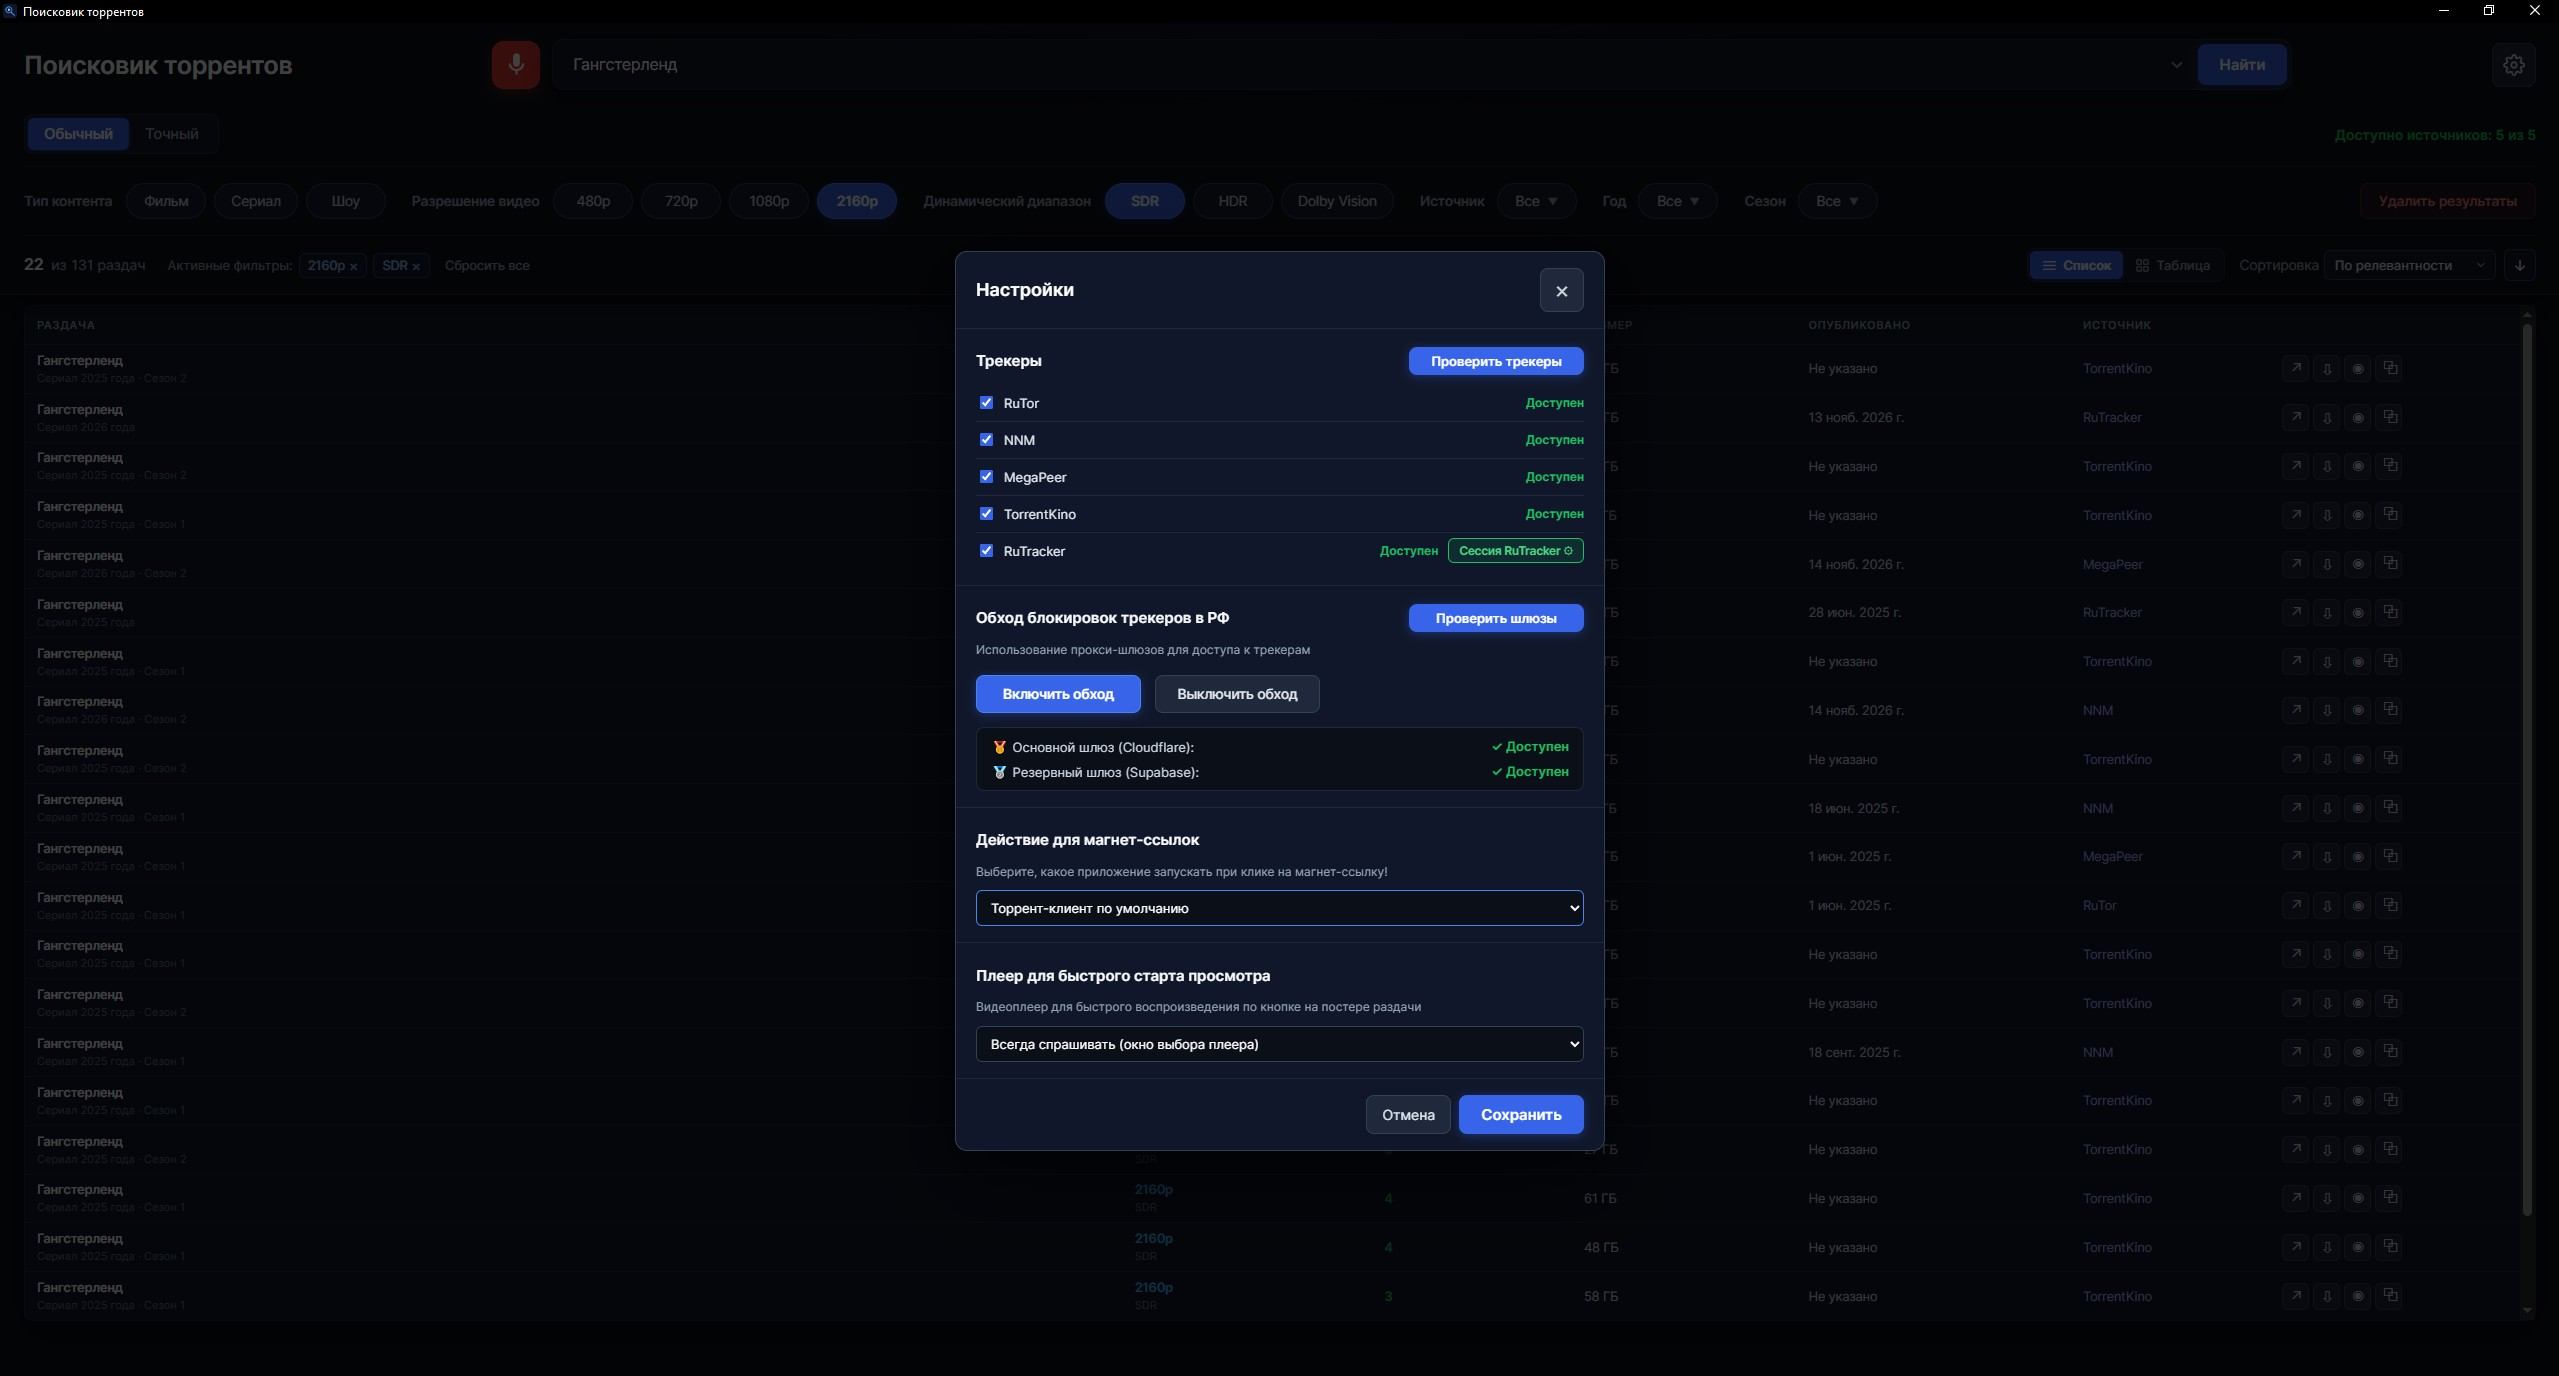
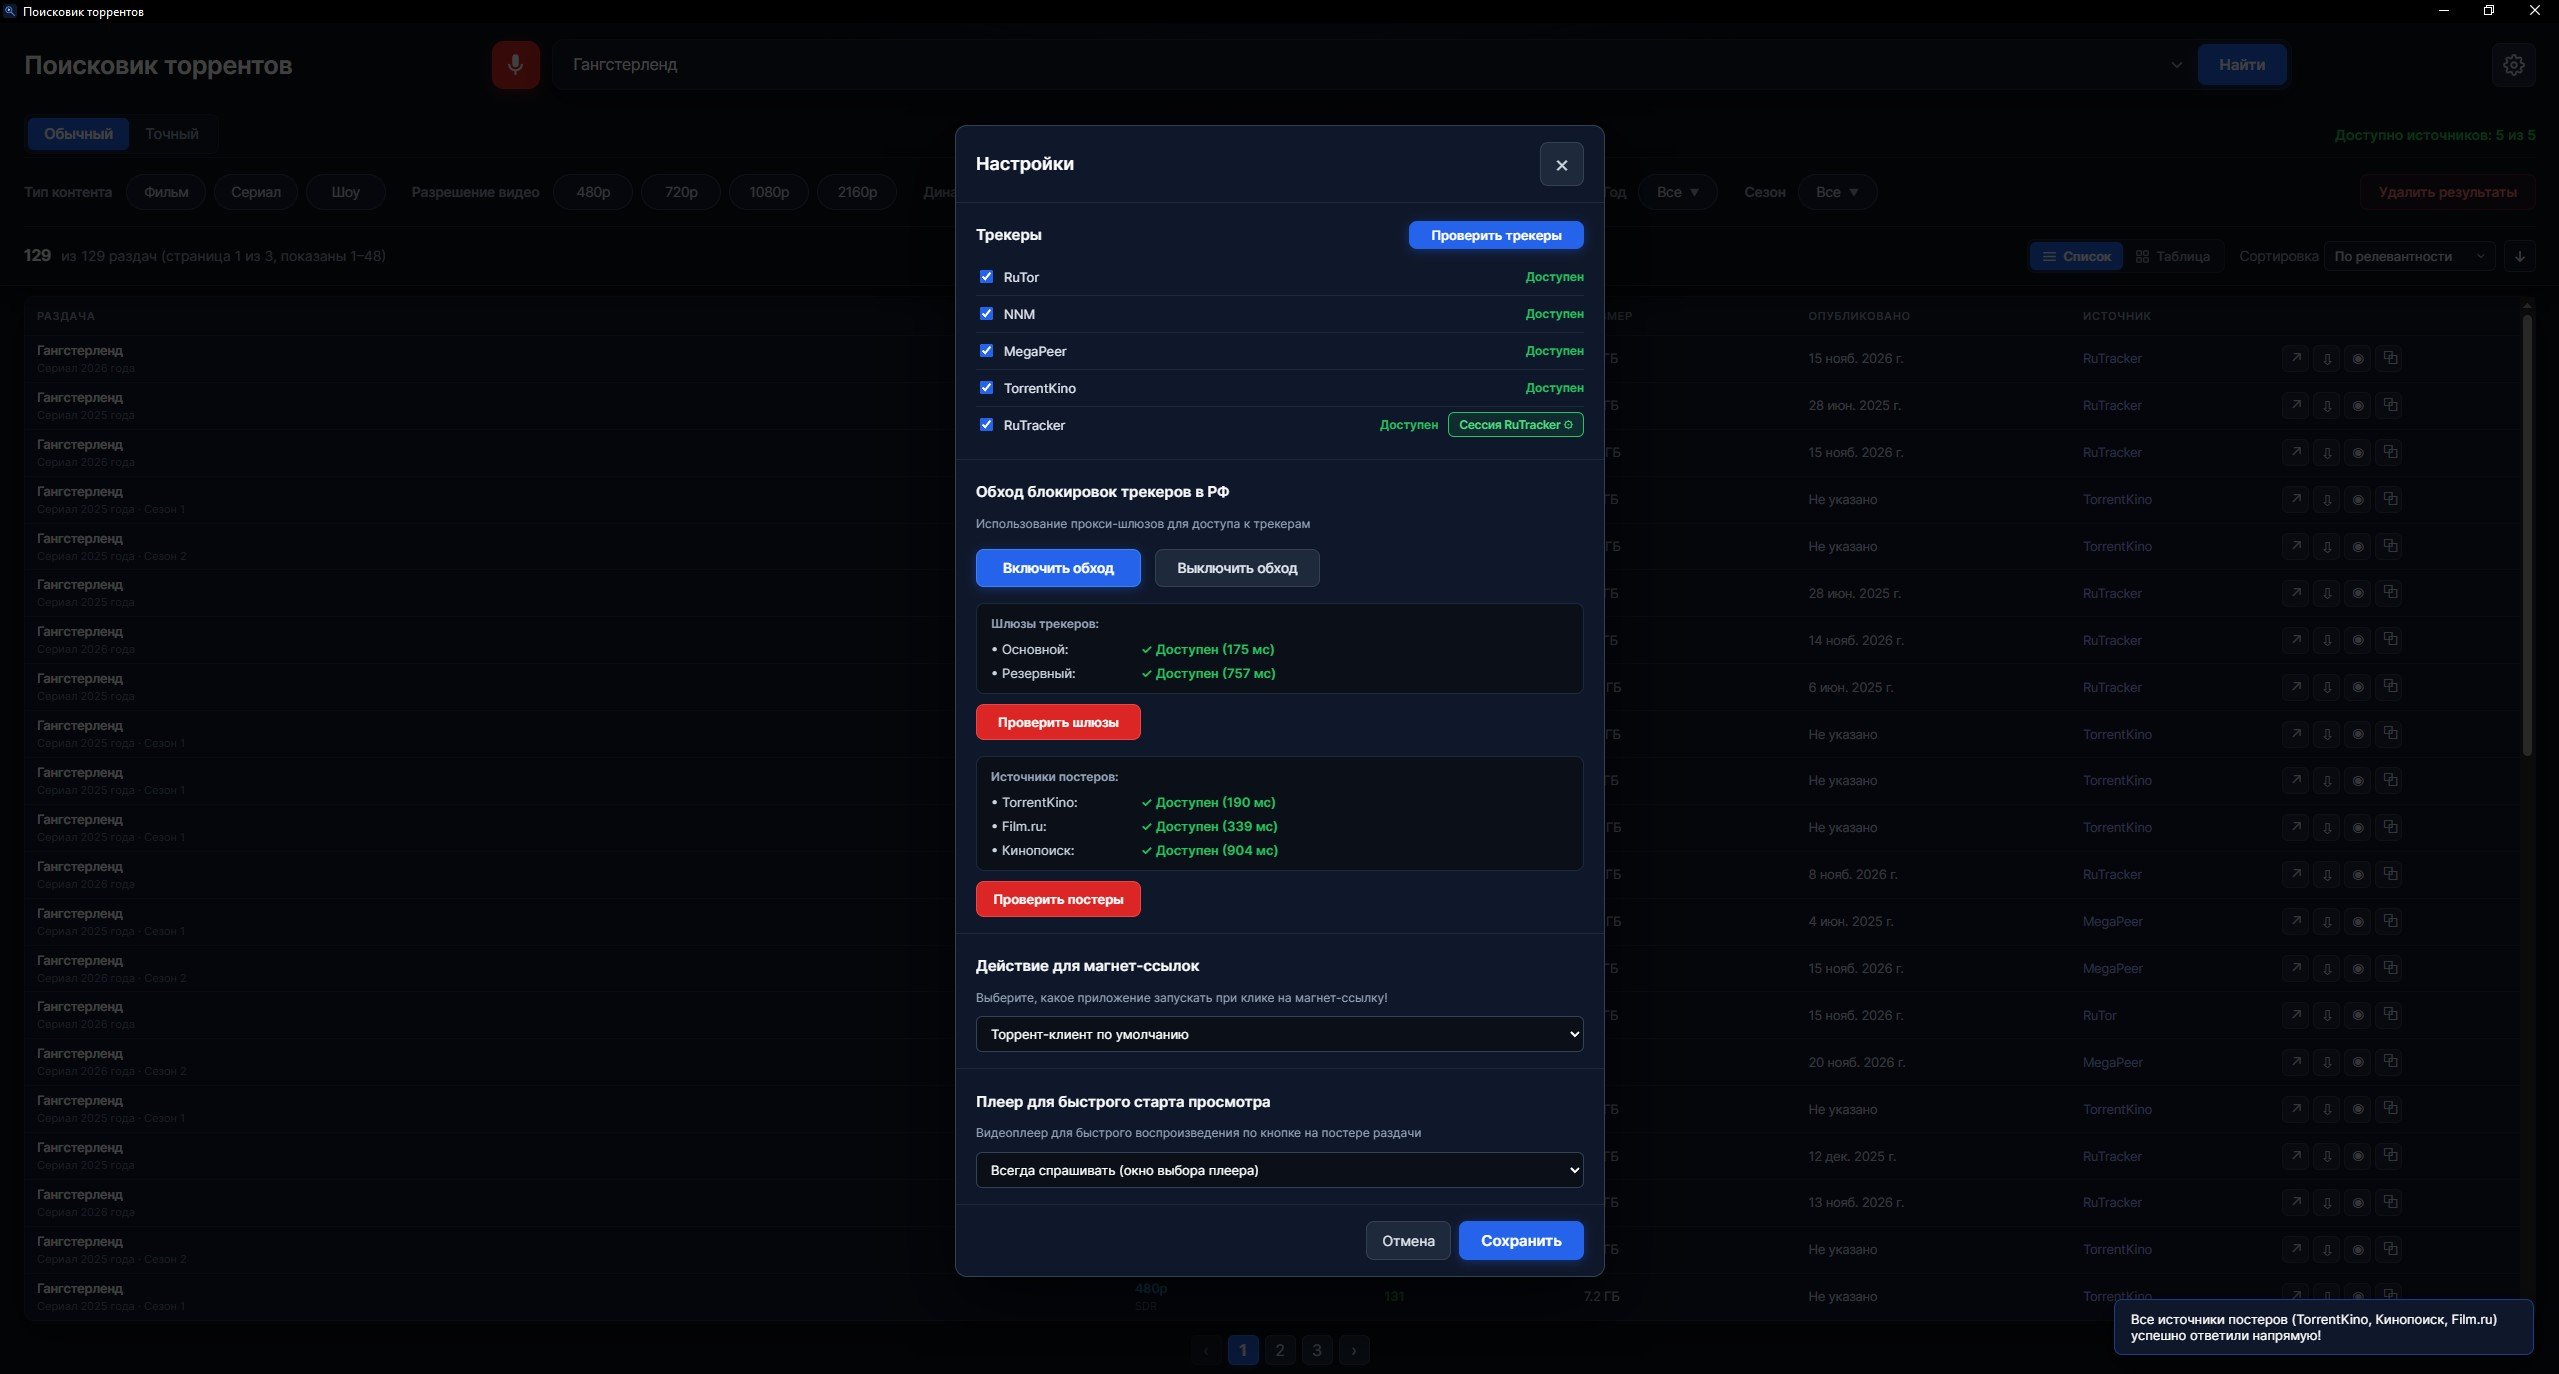
docs: release v1.2.0 update screenshots, VirusTotal link and documentation

diff --git a/README.md b/README.md
@@ -1,8 +1,8 @@
 # <img src="assets/icon.png" width="28" height="28" alt="Поисковик торрентов" /> Поисковик торрентов
 
-[![Версия](https://img.shields.io/badge/Версия-v1.1.0-blue.svg)](https://github.com/Yura1206/poisk_torrentov/releases)
+[![Версия](https://img.shields.io/badge/Версия-v1.2.0-blue.svg)](https://github.com/Yura1206/poisk_torrentov/releases)
 [![Платформа](https://img.shields.io/badge/Платформа-Windows%2010%20%7C%2011%20(64--bit)-0078D6.svg)](https://github.com/Yura1206/poisk_torrentov/releases)
-[![VirusTotal](https://img.shields.io/badge/VirusTotal-Безопасно%20(0%20угроз)-brightgreen.svg)](https://www.virustotal.com/gui/file/7900cb2ebb1f53526e47f1efe4c383a394f4ab61090309c350e0261250132c0f)
+[![VirusTotal](https://img.shields.io/badge/VirusTotal-Безопасно%20(0%20угроз)-brightgreen.svg)](https://www.virustotal.com/gui/file/45d69a2b9a1f65c4cd68675142f220f948148ea3ac7655355a808d5dd1f44f5b)
 [![Лицензия](https://img.shields.io/badge/Лицензия-MIT-yellow.svg)](LICENSE)
 
 **Поисковик торрентов** — современное, быстрое и удобное настольное приложение для Windows, объединяющее поиск фильмов, сериалов и телешоу по крупнейшим русскоязычным каталогам (RuTracker, RuTor, NNM-Club, MegaPeer, TorrentKino) в едином интерфейсе.
@@ -25,8 +25,8 @@
 ---
 
 ### 🛡 Безопасность и проверка VirusTotal
-Файлы проверены сервисом VirusTotal 43 антивирусными базами — угроз и вредоносного кода не обнаружено (0 срабатываний):  
-👉 **[Открыть полный отчёт проверки на VirusTotal](https://www.virustotal.com/gui/file/7900cb2ebb1f53526e47f1efe4c383a394f4ab61090309c350e0261250132c0f)**
+Файлы проверены сервисом VirusTotal 62 антивирусными базами — угроз и вредоносного кода не обнаружено (0 срабатываний):  
+👉 **[Открыть полный отчёт проверки на VirusTotal](https://www.virustotal.com/gui/file/45d69a2b9a1f65c4cd68675142f220f948148ea3ac7655355a808d5dd1f44f5b)**
 
 > 💡 **Первый запуск в Windows (SmartScreen):**  
 > Поскольку программа является независимым бесплатным проектом без платной цифровой подписи корпорации Microsoft, фильтр **SmartScreen** при первом запуске может показать предупреждение.  
@@ -84,7 +84,7 @@
 ---
 
 ### 8. Настройки программы и обход блокировок для РФ
-Быстрая проверка доступности всех пяти трекеров, переключение встроенных прокси-шлюзов обхода блокировок (Cloudflare Worker и Supabase Edge), выбор торрент-клиента по умолчанию (qBittorrent, uTorrent, Transmission и др.) и настройка предпочтительного видеоплеера.
+Быстрая проверка доступности всех пяти трекеров, тестирование скорости и доступности прокси-шлюзов обхода блокировок (Основной и Резервный с замером пинга), раздельное тестирование источников постеров (TorrentKino, Film.ru, Кинопоиск), выбор торрент-клиента по умолчанию (qBittorrent, uTorrent, Transmission и др.) и настройка предпочтительного видеоплеера.
 [![Настройки программы](assets/screenshots/08_settings_trackers_proxy.jpg)](https://raw.githubusercontent.com/Yura1206/poisk_torrentov/main/assets/screenshots/08_settings_trackers_proxy.jpg)
 
 ---
